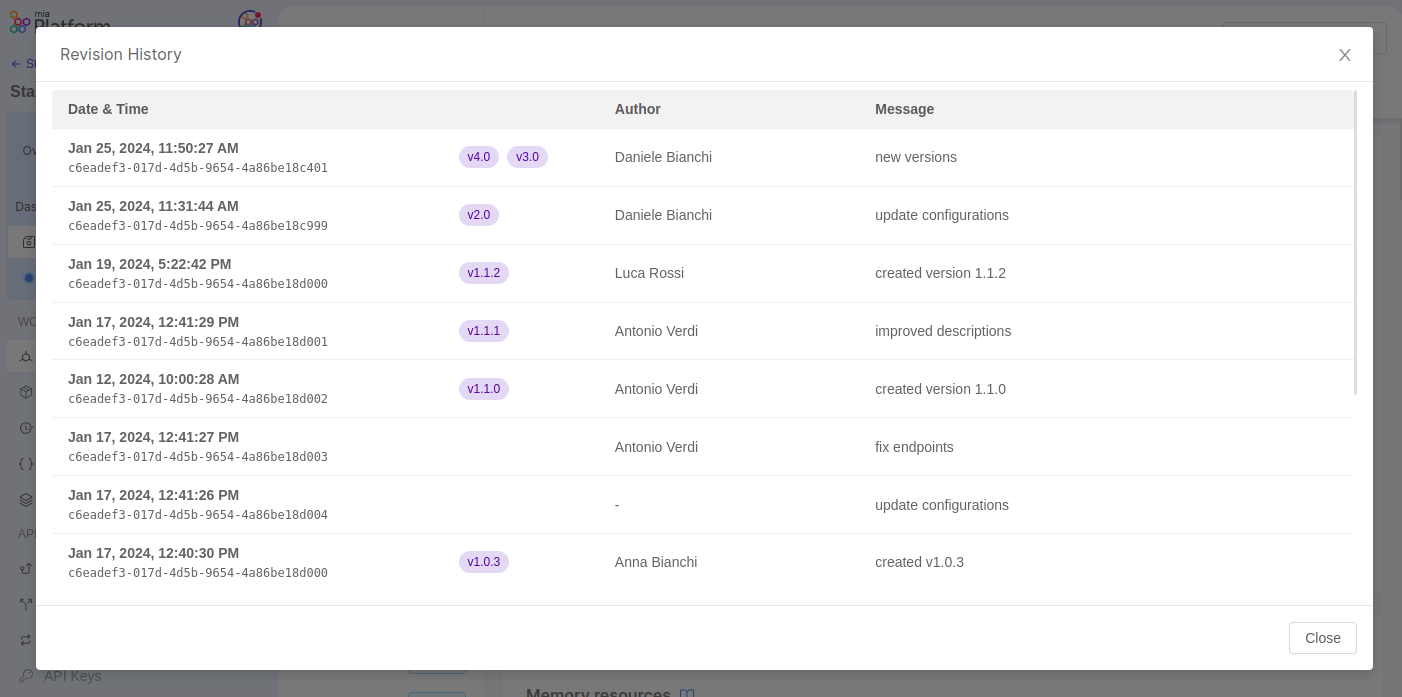
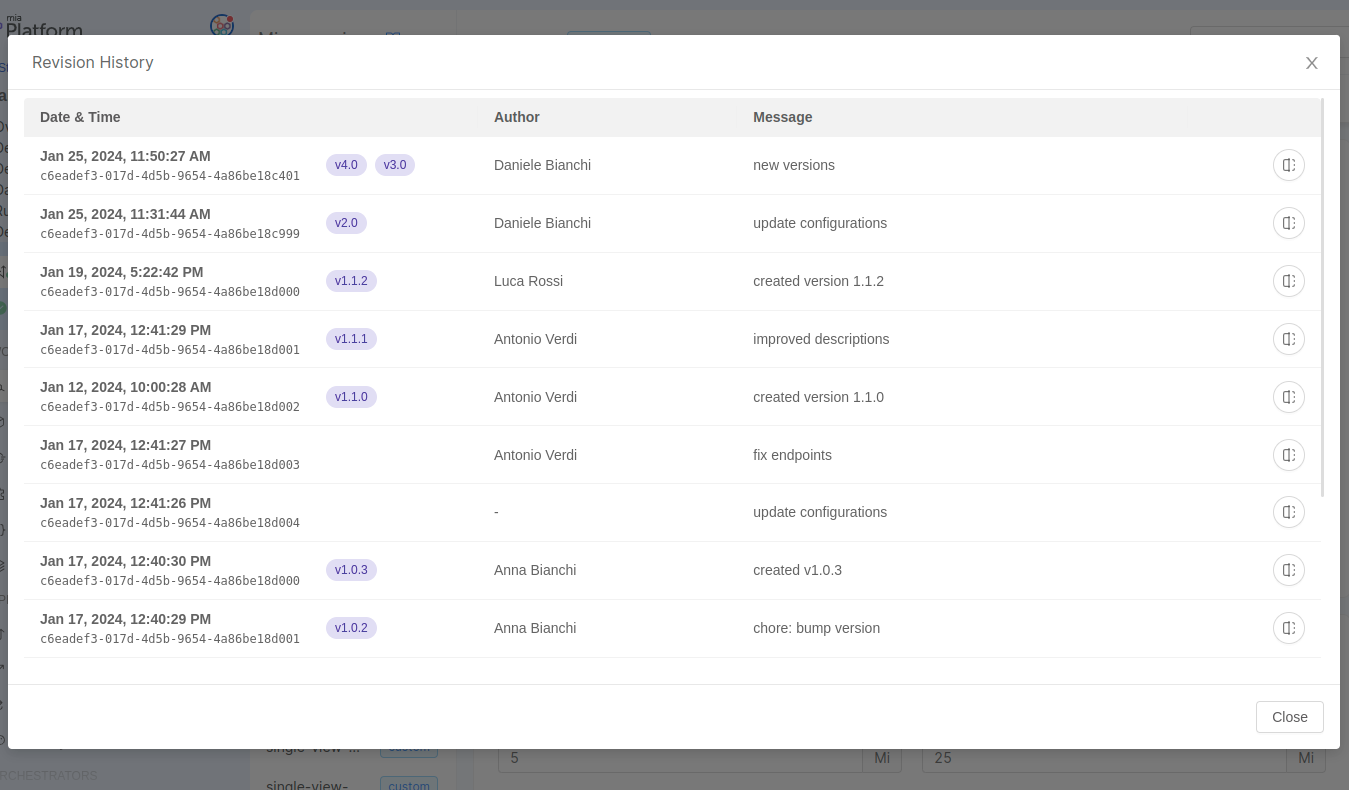
project: saving history docs (#1067)
* project: saving history docs
* feat: screenshot, description of the Revision history feature

---------

diff --git a/docs/development_suite/set-up-infrastructure/enhanced-project-workflow.md b/docs/development_suite/set-up-infrastructure/enhanced-project-workflow.md
@@ -69,23 +69,27 @@ This change also means that the Console will not rely on the typical Git-based i
 - `Branches` and `Tags` become **`Revisions`** and **`Versions`**
 - the `Commit history` becomes **`Revision history`**
 
-To keep track of the Project evolution, the user can create `versions` (similar to Git tags) that act as immutable snapshots of the configuration in a particular moment. To keep track of how a revision has changed over time, the user can access its history by clicking the related icon inside the branch selection area.
-
-![Revision History modal](img/revision-history.png)
-
-The table includes a list of all snapshots of the project configuration created with each save, along with useful information such as the snapshot date, author, associated message, and any tags created with it.
-
 Developers can manage *revisions* and *versions* from the dedicated sections inside the Overview area. Revisions can be accessed and deleted from the Revisions management page:
 
 ![Revisions management page](img/revisions-overview.png)
 
-Versions with their description and release note can be viewed and deleted through the versions management page:
+Versions works as immutable snapshots of the configuration in a particular moment, with their description and release note, can be viewed and deleted through the versions management page:
 
 :::info
 Versions can only be deleted by Project Administrators.
 :::
 
 ![Versions management page](img/versions-overview.png)
+
+### Revision history
+
+To keep track of how a revision has changed over time, the user can access its revision history, which contains past snapshots of the Project configuration.
+
+![Revision History modal](img/revision-history.png)
+
+The revision history is accessible by clicking the related icon inside the branch selection area. It contains a list of snapshots of the Project configuration on the current revision or version, created each time it has been saved. It also includes useful information such as the snapshot date, author, associated message, and any tags associated with it. Moreover, the right-side button allows the user to visualize changes between the selected snapshot and the previous one, in order to better understand the configuration's evolution over time.
+
+![Diff Editor on Revision History modal](img/diff-editor-on-revision-history.png)
 
 ### New deployment workflow
 
